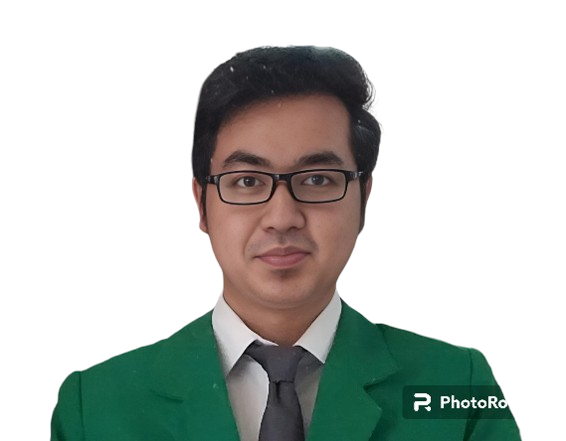
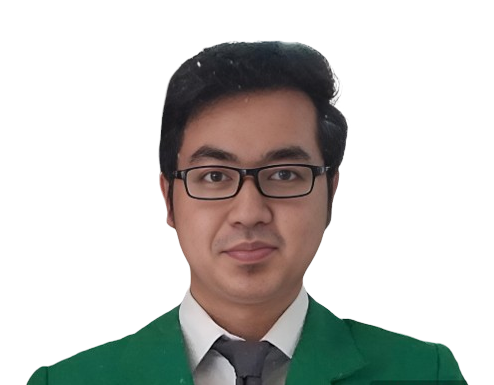
fifth commit:kontak

Changed region(s): [[0.0304, 0.0935, 0.9717, 1.0], [0.3644, 0.1247, 0.4251, 0.187], [0.6377, 0.8727, 0.668, 0.9039]]

diff --git a/app/contact/_components/kontak.tsx b/app/contact/_components/kontak.tsx
@@ -25,19 +25,19 @@ export function Kontak() {
             </svg>
           </div>
 
-          <h1 className="font-bold mx-auto text-3xl text-white mb-4 relative z-20">
+          <h1 className="font-bold mx-auto text-lg md:text-3xl text-white mb-4 relative z-20">
           farhanramadhands@gmail.com
           </h1>
 
-          <h1 className="font-bold mx-auto text-3xl text-white mb-4 relative z-20">
+          <h1 className="font-bold mx-auto text-lg md:text-3xl text-white mb-4 relative z-20">
           087885177321
           </h1>
 
-          <h1 className="font-bold mx-auto text-3xl text-white mb-4 relative z-20">
+          <h1 className="font-bold mx-auto text-lg md:text-3xl text-white mb-4 relative z-20">
           IG = @farhanrdc
           </h1>
 
-          <h1 className="font-bold mx-auto text-lg text-white mb-4 relative z-20">
+          <h1 className="ml-11 font-bold mx-auto text-lg md:text-3xl text-white mb-4 relative z-20">
           https://www.linkedin.com/in/farhan-ramadhan-6318412b3
           </h1>
           

diff --git a/components/home/three-d-image.tsx b/components/home/three-d-image.tsx
@@ -11,7 +11,7 @@ export function ThreeDCardDemo() {
         
         <CardItem translateZ="100" className="w-full ">
           <Image
-            src="/farhan5.png"
+            src="/saya.png"
             height="1000"
             width="1000"
             className="h-[30rem] w-full object-cover rounded-xl group-hover/card:shadow-xl"

diff --git a/app/contact/page.tsx b/app/contact/page.tsx
@@ -3,7 +3,7 @@ import { Kontak } from "./_components/kontak"
 
 const ContactPage = () => {
   return (
-    <div className= "h-screen flex justify-center items-center">
+    <div className= "h-screen w-screen flex justify-center items-center">
     <Kontak />
     </div>
   )
